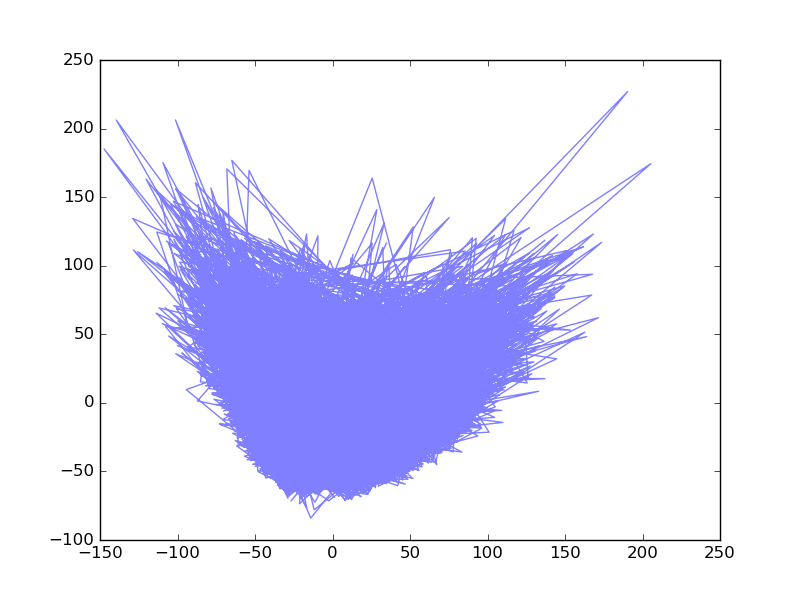
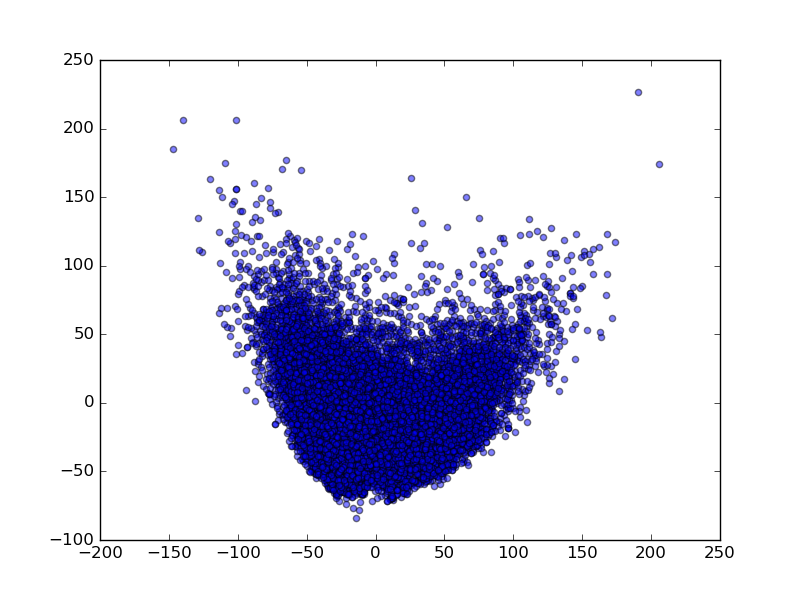
merge

diff --git a/practical_3/train_model.py b/practical_3/train_model.py
@@ -311,17 +311,17 @@ def feature_extraction():
         print("Calculating TSNE")
         tnse = TSNE(n_components=2, init='pca', random_state=0)
         pca = tnse.fit_transform(fcl2)
-        print(pca[:,0])
+        print(pca[:,0].shape)
         
         
         prediction = np.argmax(logits)
-        print(prediction)
+        print(prediction.shape)
         fig = plt.figure()
-        x = np.random.rand(10)
-        y = np.random.rand(10)
-       
+      
         fig = plt.figure()
-        plt.plot(pca[:,0], pca[:,1], alpha=0.5)
+        for i in len(n_classes):
+            class_points = pca[prediction == label] 
+            plt.scatter(class_points[:,0], class_points[:,1], color=plt.cm.Set1(i), alpha=0.5)
 
         plt.savefig('images/tsne_plot.png')
         
